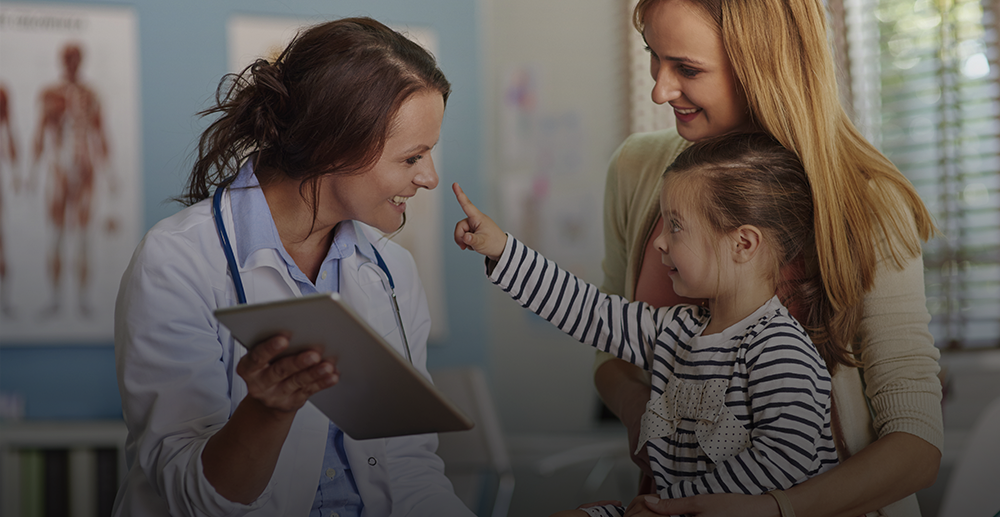
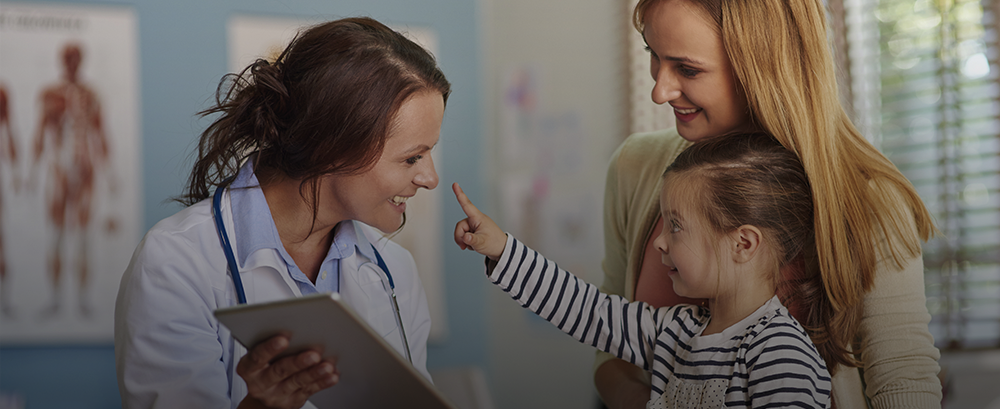
CALECITA Y EDIT

diff --git a/src/views/PCLandingPage/PCLandingPage.js b/src/views/PCLandingPage/PCLandingPage.js
@@ -14,7 +14,7 @@ import Footer from "components/Footer/Footer.js";
 // import GridItem from "components/Grid/GridItem.js";
 // import Button from "components/CustomButtons/Button.js";
 import HeaderLinks from "components/Header/HeaderLinks.js";
-import Parallax from "components/Parallax/Parallax.js";
+//import Parallax from "components/Parallax/Parallax.js";
 import Carousel from "components/Carousel/Carousel.js";
 import styles from "assets/jss/material-kit-react/views/landingPage.js";
 // Sections for this page
@@ -38,11 +38,11 @@ export default function LandingPage(props) {
         fixed
         {...rest}
       />
-      <Parallax filter image={require("assets/img/lp.png").default}>
-        <div className={classes.container}>
-          <Carousel />
-        </div>
-      </Parallax>
+      
+
+        <Carousel />
+      
+
 
       <div className={classNames(classes.main, classes.mainRaised)}>
         <div className={classes.container}>

diff --git a/src/views/Components/Sections/SectionCarousel.js b/src/views/Components/Sections/SectionCarousel.js
@@ -32,7 +32,7 @@ export default function SectionCarousel() {
     <div className={classes.section}>
       <div className={classes.container}>
         <GridContainer>
-          <GridItem xs={12} sm={12} md={8} className={classes.marginAuto}>
+          <GridItem xs={12} sm={12} md={12} className={classes.marginAuto}>
             <Card carousel>
               <Carousel {...settings}>
                 <div>

diff --git a/src/components/Carousel/Carousel.js b/src/components/Carousel/Carousel.js
@@ -13,6 +13,8 @@ import image1 from "assets/img/Carousel/cr1.png";
 import image2 from "assets/img/Carousel/cr2.png";
 import image3 from "assets/img/Carousel/cr3.png";
 
+
+
 //                 <Health className="slick-icons" style={{ fontSize: 50 }}/>  
 
 export default function SectionCarousel(){
